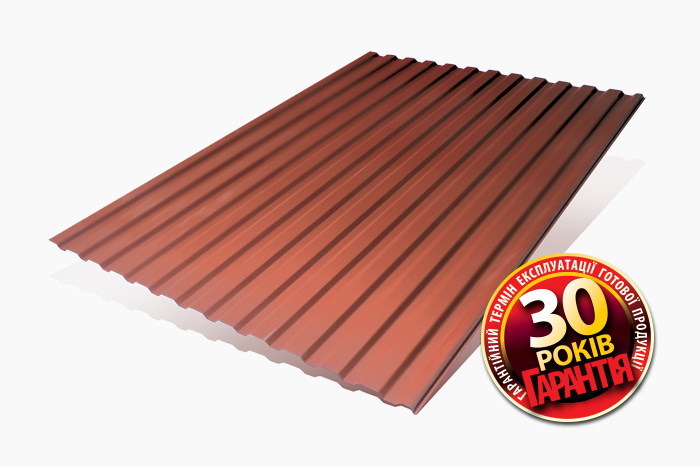
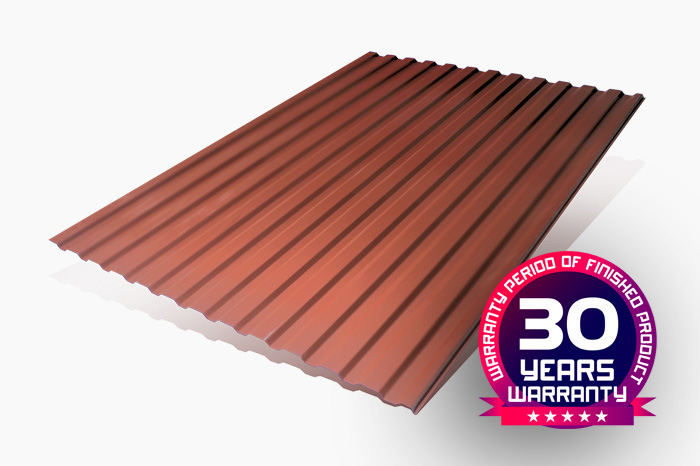
Warranty badge change

Changed region(s): [[0.57, 0.4807, 0.99, 1.0]]

diff --git a/accessories.html b/accessories.html
@@ -41,7 +41,7 @@
             <div id="navbar" class="navbar-collapse collapse">
               <ul class="nav navbar-nav">
                 <li><a href="index.html">Home</a></li>
-                <li class="active"><a href="technology.html">Technology</a></li>
+                <li><a href="technology.html">Technology</a></li>
                 <li class="dropdown">
 									<a href="#" class="dropdown-toggle" data-toggle="dropdown" role="button" aria-haspopup="true" aria-expanded="false">Products<span class="caret"></span></a>
 									<ul class="dropdown-menu">

diff --git a/technology.html b/technology.html
@@ -70,7 +70,7 @@
 
     <div class="container marketing">
 			<div class="jumbotron">
-				<h2>WARRANTY PERIOD OF FINISHER PRODUCT - 30 YEARS</h2>
+				<h2>WARRANTY PERIOD OF FINISHED PRODUCT - 30 YEARS</h2>
 			</div>
 
 			<p><b>Covering Material</b> — one of the major and important elements of the building. It's quality is what makes reliability status of all facilities, services and comfort of home.</p>
